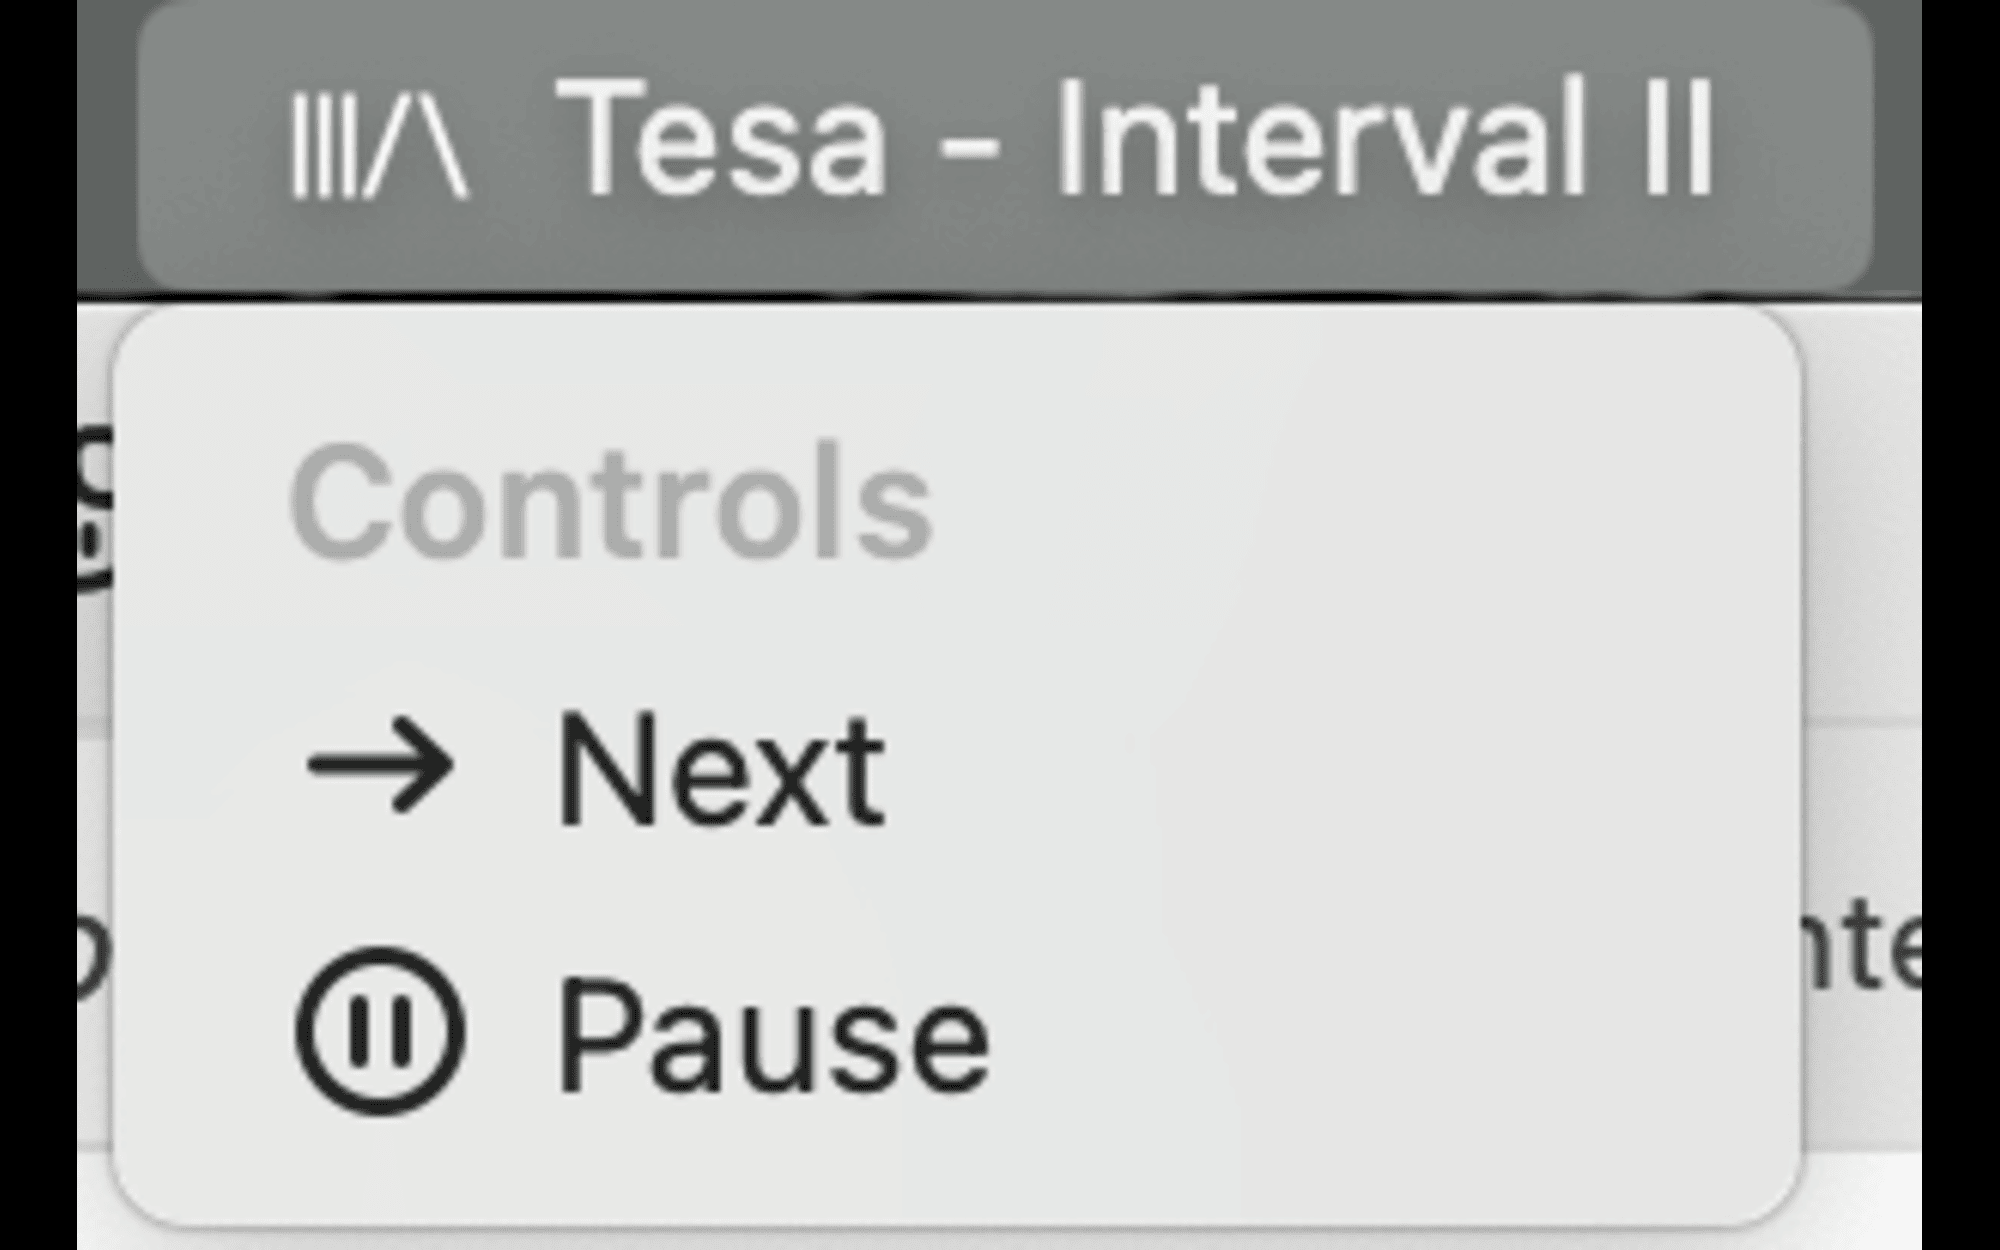
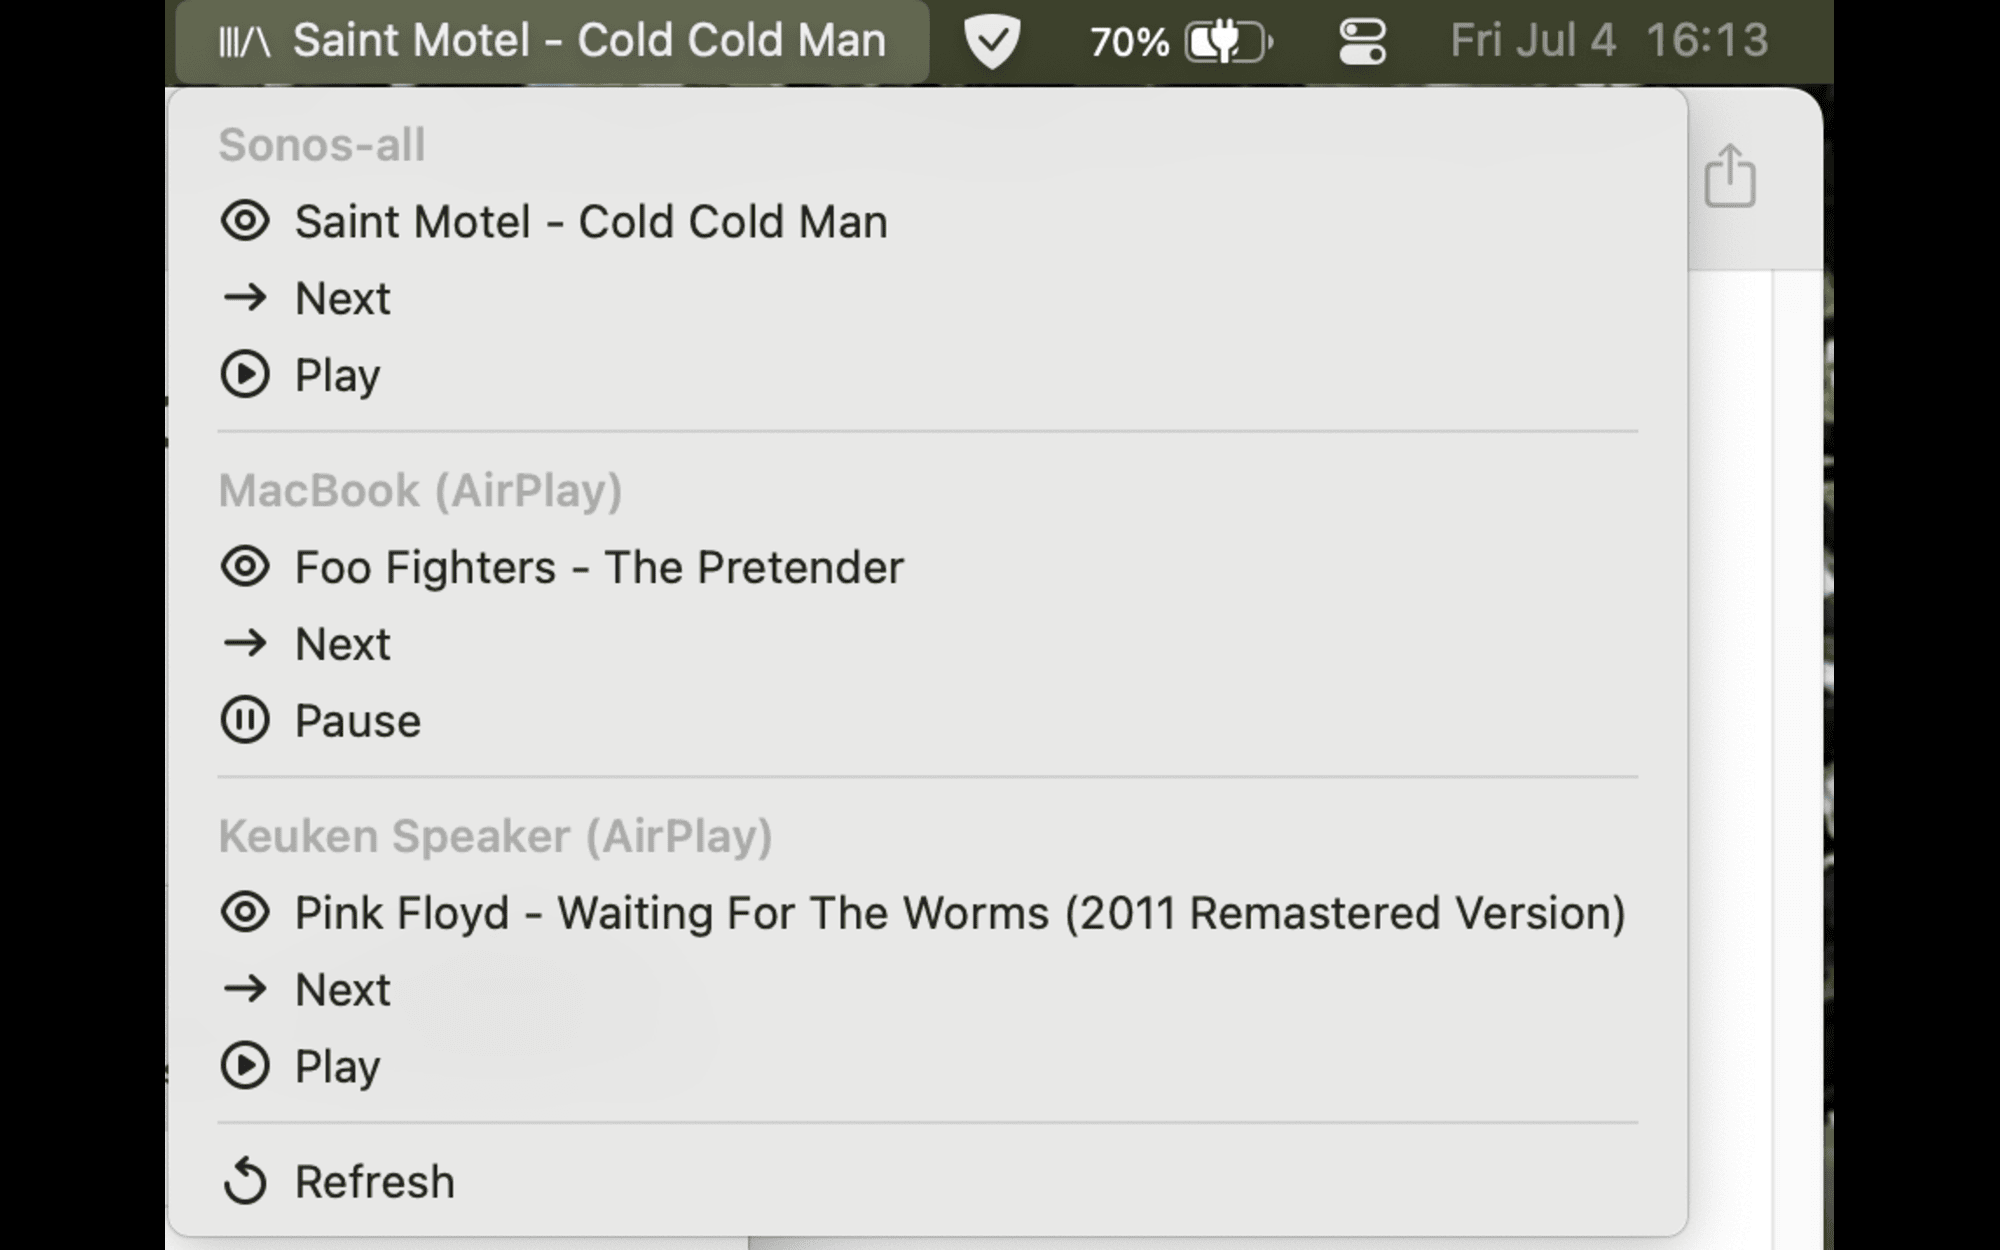
feat: add 'Set Active Player' command to configure the player in the menu bar

diff --git a/src/set-active-player.tsx b/src/set-active-player.tsx
@@ -1,0 +1,40 @@
+import { Action, ActionPanel, Icon, List, showHUD } from "@raycast/api";
+import MusicAssistantClient from "./music-assistant-client";
+import { useCachedPromise } from "@raycast/utils";
+import { storeSelectedQueueID } from "./use-selected-player-id";
+
+export default function SetActivePlayerCommand() {
+  const client = new MusicAssistantClient();
+  const {
+    isLoading,
+    data: queues,
+    revalidate: revalidatePlayers,
+  } = useCachedPromise(async () => await client.getActiveQueues(), [], {
+    keepPreviousData: true,
+    initialData: [],
+  });
+
+  const select = async (queue_id: string, display_name: string) => {
+    await storeSelectedQueueID(queue_id);
+    await showHUD(`${display_name} selected, allow 10 seconds for the menubar to update!`);
+  };
+
+  return (
+    <List isLoading={isLoading} navigationTitle="Set Active Player" searchBarPlaceholder="Search your active players">
+      {queues?.map(({ queue_id, display_name, current_item }) => (
+        <List.Item
+          title={display_name}
+          subtitle={current_item?.name}
+          icon={Icon.Play}
+          key={queue_id}
+          actions={
+            <ActionPanel>
+              <Action title="Select" onAction={() => select(queue_id, display_name)} />
+              <Action title="Reload" onAction={() => revalidatePlayers()} />
+            </ActionPanel>
+          }
+        />
+      ))}
+    </List>
+  );
+}

diff --git a/src/menu-bar.tsx b/src/menu-bar.tsx
@@ -3,7 +3,7 @@ import { useCachedPromise, useLocalStorage } from "@raycast/utils";
 import { PlayerQueue, PlayerState } from "./interfaces";
 import MusicAssistantClient from "./music-assistant-client";
 import { useEffect, useState } from "react";
-import { selectedPlayerKey } from "./use-selected-player-id";
+import { selectedPlayerKey, StoredQueue } from "./use-selected-player-id";
 
 export default function Command() {
   const client = new MusicAssistantClient();
@@ -16,17 +16,13 @@ export default function Command() {
     initialData: [],
   });
 
-  const { value: storedQueueId, setValue: storeQueueId } = useLocalStorage<{ queue_id: string }>(selectedPlayerKey);
+  const { value: storedQueueId, setValue: storeQueueId } = useLocalStorage<StoredQueue>(selectedPlayerKey);
 
   const [title, setTitle] = useState<string>();
 
   useEffect(() => {
     if (queues.length === 0) return;
-    let queue = storedQueueId?.queue_id ? queues.find((q) => q.queue_id === storedQueueId.queue_id) : undefined;
-    if (!queue) {
-      queue = queues[0]!;
-      storeQueueId({ queue_id: queue.queue_id });
-    }
+    let queue = storedQueueId?.queue_id ? queues.find((q) => q.queue_id === storedQueueId.queue_id) : queues[0];
     const current_item = queue?.current_item;
     if (current_item?.name && current_item.name !== title) setTitle(current_item.name);
   }, [storedQueueId]);

diff --git a/src/use-selected-player-id.ts b/src/use-selected-player-id.ts
@@ -1,18 +1,24 @@
 import { showToast, launchCommand, LaunchType, LocalStorage } from "@raycast/api";
 
 export const selectedPlayerKey = "queue_id";
+export type StoredQueue = { queue_id: string };
+export async function storeSelectedQueueID(queue_id: string) {
+
+  return LocalStorage.setItem(selectedPlayerKey, JSON.stringify({ queue_id }));
+}
+
 export async function getSelectedQueueID() {
   const storedObj = await LocalStorage.getItem<string>(selectedPlayerKey);
-  const selectedPlayerID: { queue_id: string } = storedObj ? JSON.parse(storedObj) : null;
+  const selectedPlayerID: StoredQueue = storedObj ? JSON.parse(storedObj) : null;
   if (!selectedPlayerID) {
     showToast({
       title: "No player selected!",
-      message: "Please select an active player through the menu bar first.",
+      message: "Please select an active player first.",
       primaryAction: {
         title: "Activate Menu Bar",
         onAction: () =>
           launchCommand({
-            name: "menu-bar",
+            name: "set-active-player",
             type: LaunchType.UserInitiated,
           }),
       },
